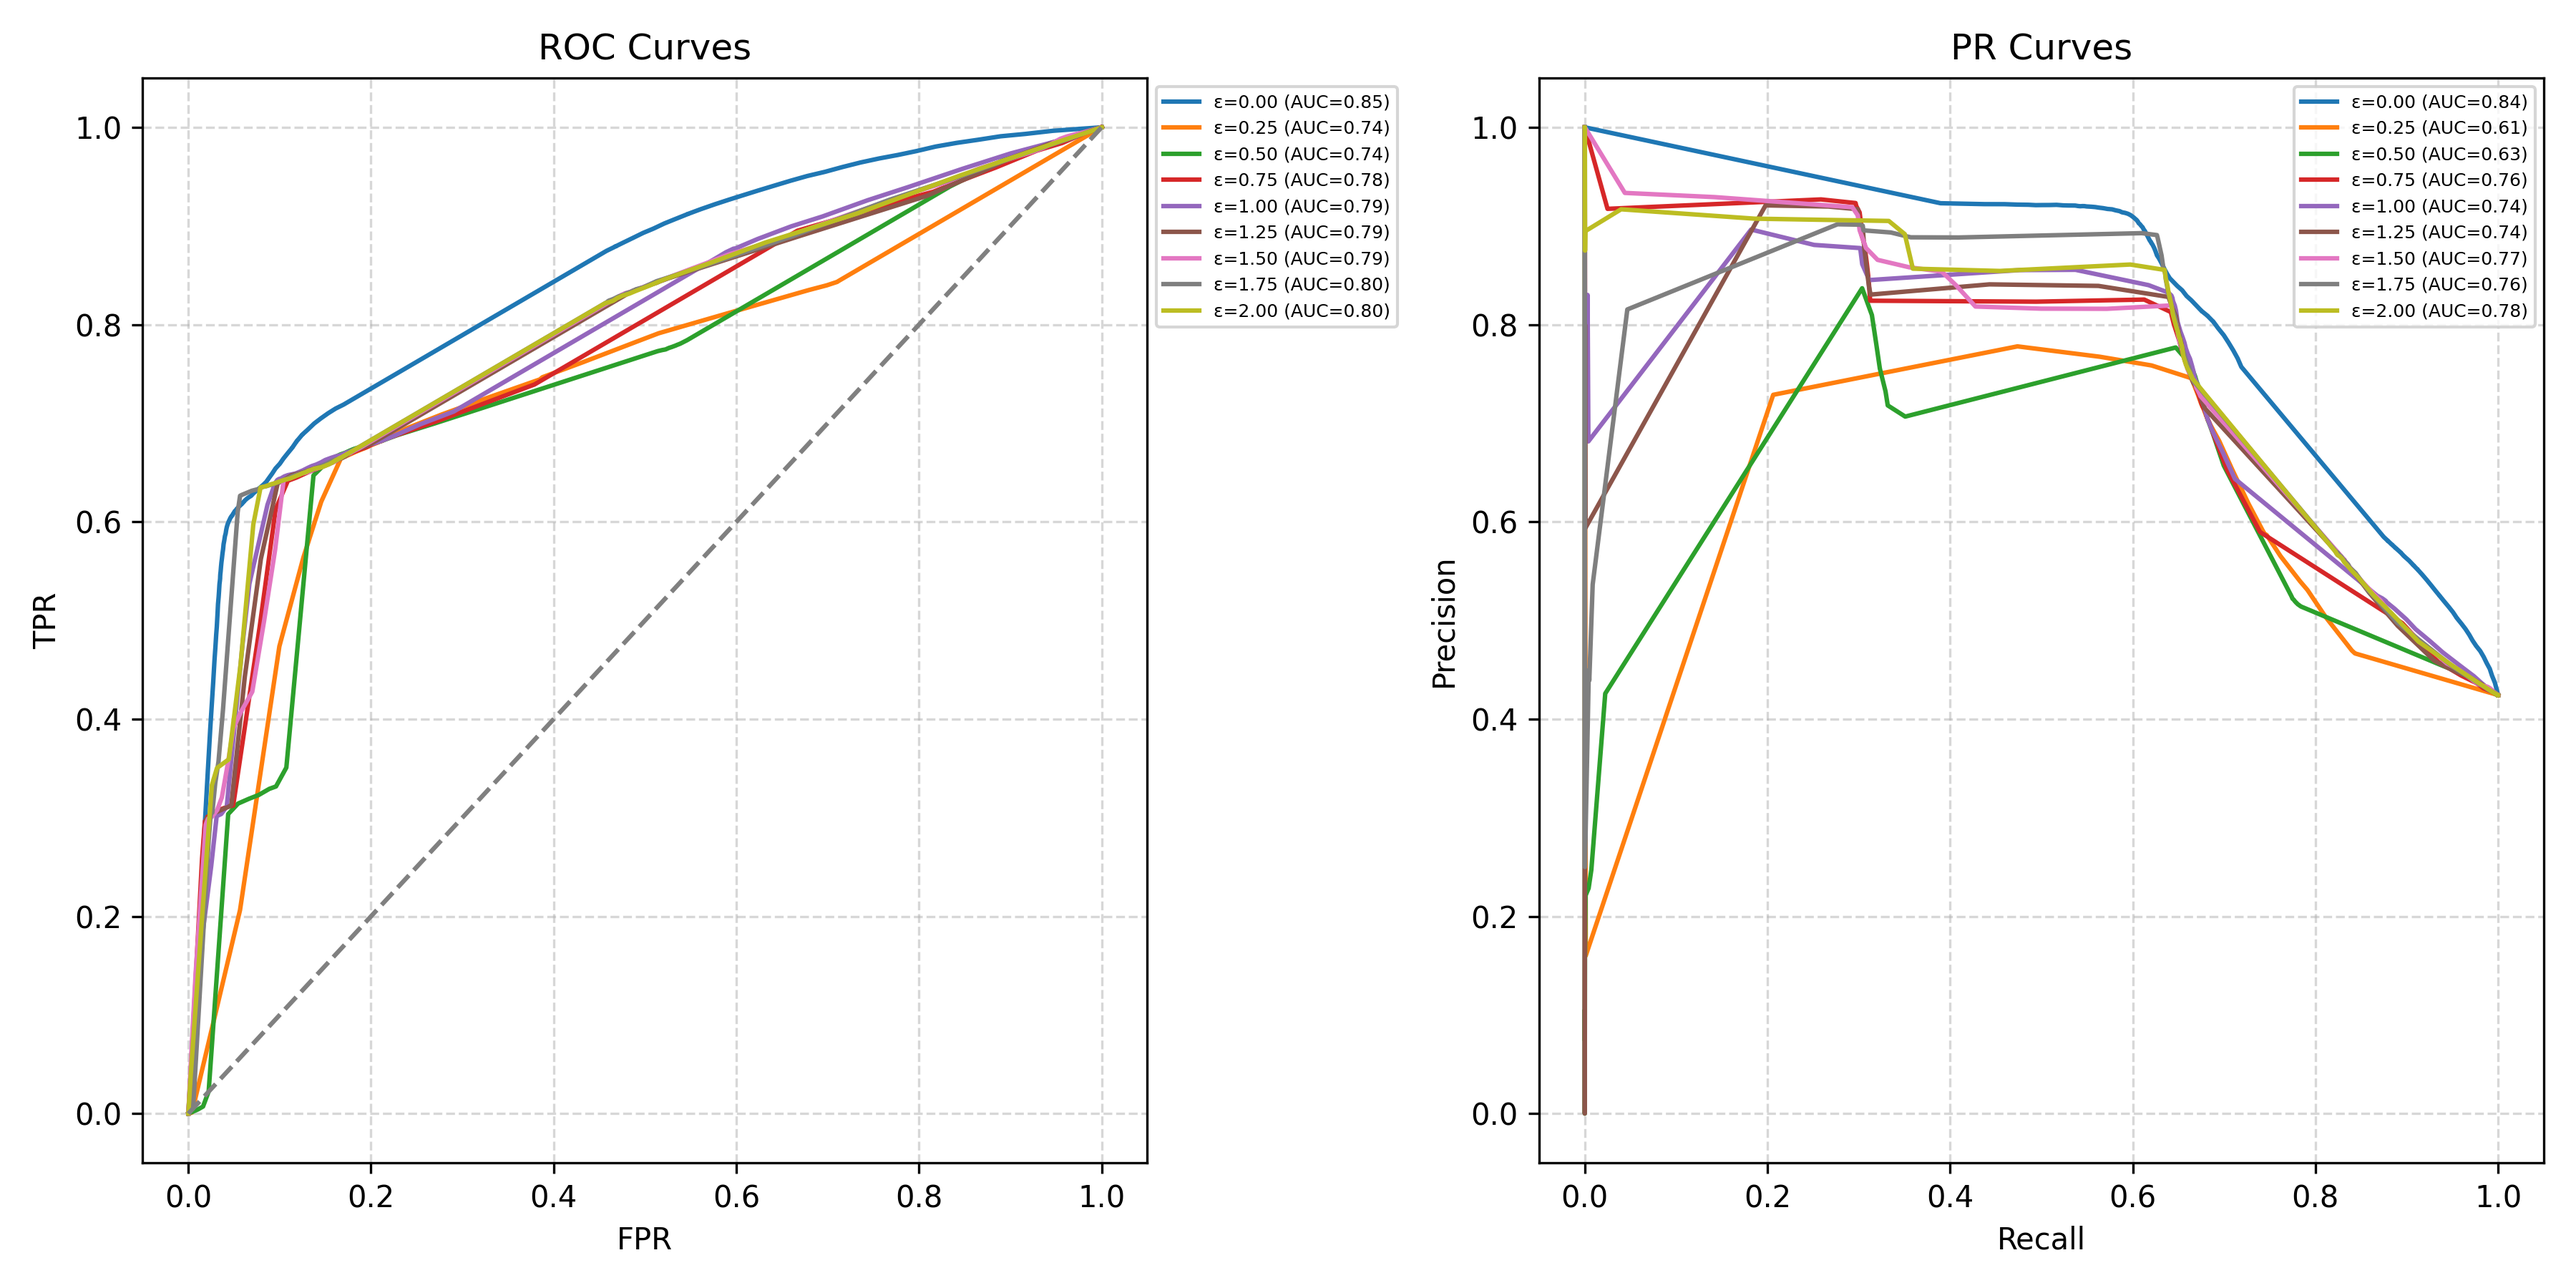
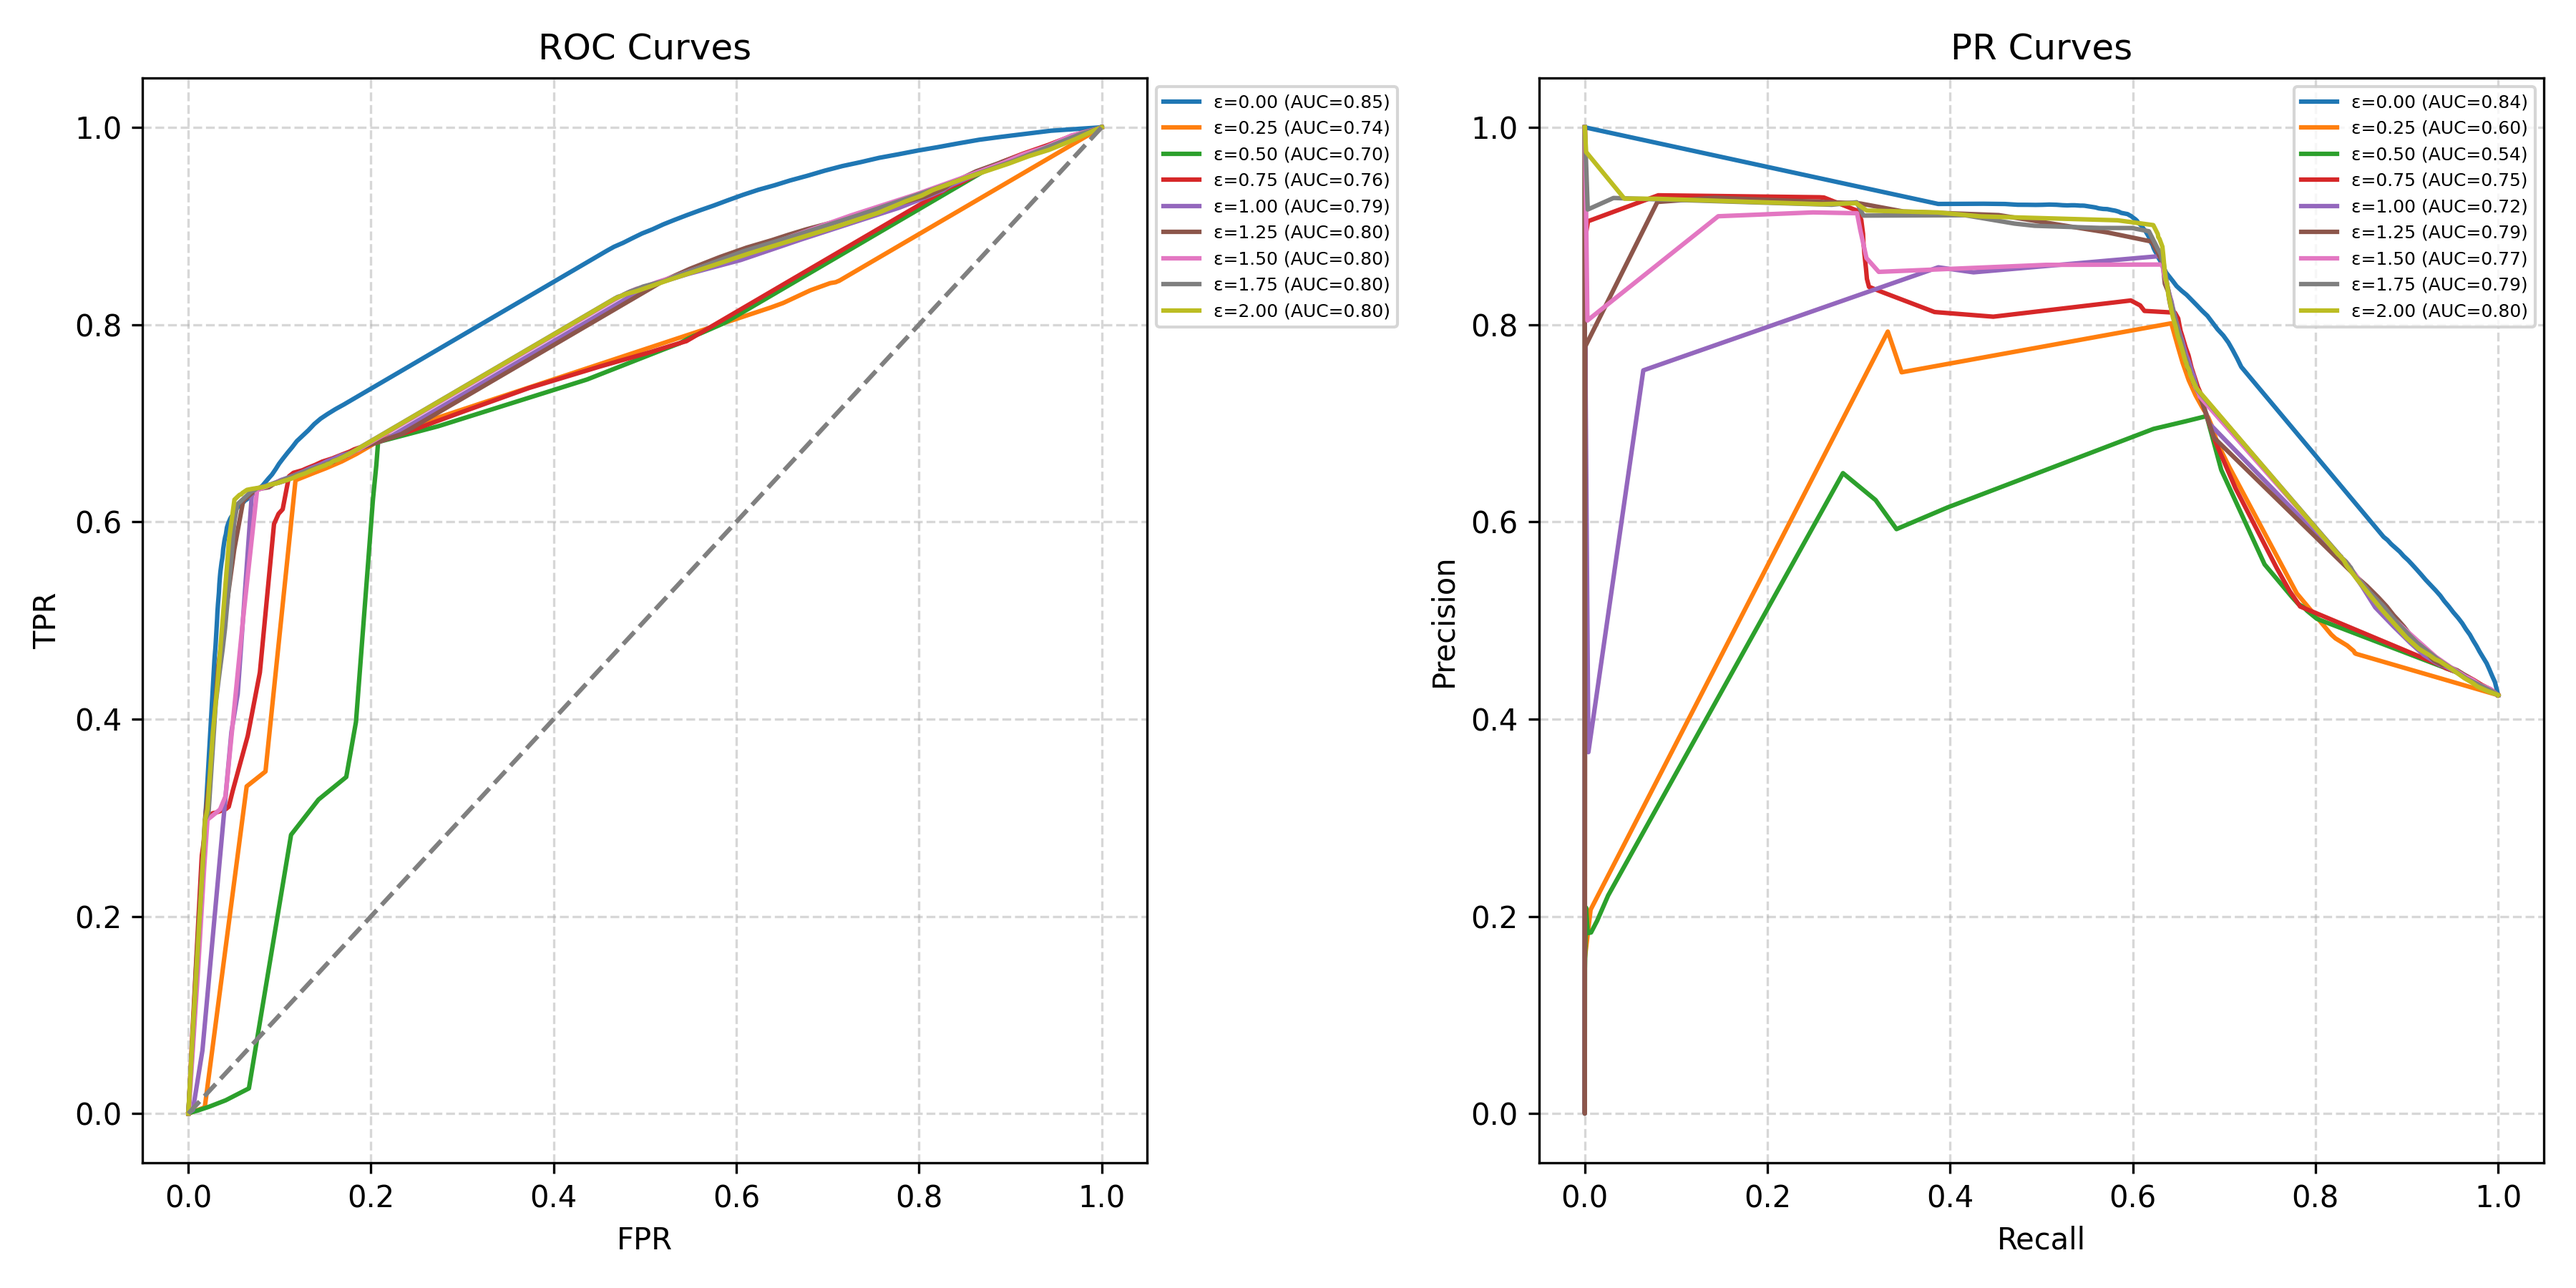
“4/30改进版_2”

diff --git a/src/optimized_pipeline.py b/src/optimized_pipeline.py
@@ -1,7 +1,9 @@
 # optimized_pipeline.py
+
 import argparse
 import logging
 from pathlib import Path
+
 import yaml
 import pandas as pd
 import numpy as np
@@ -12,11 +14,57 @@ from sklearn.metrics import (
 )
 from sklearn.model_selection import train_test_split
 from sklearn.utils import resample
+
 from cls import train_and_evaluate_model
-from D_privacy import apply_differential_privacy
+
+
+# -----------------------------------------------------------------------------
+# Utility Functions
+# -----------------------------------------------------------------------------
+
+def apply_feature_dp(X_norm: np.ndarray, epsilon: float) -> np.ndarray:
+    """
+    在归一化特征上注入 Laplace 噪声（敏感度=1）。
+    """
+    if epsilon <= 0:
+        return X_norm
+    scale = 1.0 / epsilon
+    noise = np.random.laplace(loc=0.0, scale=scale, size=X_norm.shape)
+    return X_norm + noise
+
+
+def oversample_training(X: pd.DataFrame, y: pd.Series, labels: list):
+    """
+    对少数类进行上采样，使两类样本数持平。
+    """
+    df_train = pd.concat([X.reset_index(drop=True), y.reset_index(drop=True)], axis=1)
+    df_train.columns = list(X.columns) + ['Label']
+    majority = df_train[df_train['Label'] == labels[0]]
+    minority = df_train[df_train['Label'] != labels[0]]
+    if minority.empty:
+        return X, y
+    minority_up = resample(minority,
+                           replace=True,
+                           n_samples=len(majority),
+                           random_state=42)
+    df_bal = pd.concat([majority, minority_up])
+    X_bal = df_bal.drop('Label', axis=1)
+    y_bal = df_bal['Label']
+    return X_bal, y_bal
+
+
+def clip_and_normalize(X: pd.DataFrame, fmin: pd.Series, fmax: pd.Series) -> np.ndarray:
+    """
+    将特征裁剪到 [fmin, fmax] 并线性归一化到 [0,1]。
+    """
+    Xc = X.clip(lower=fmin, upper=fmax, axis=1)
+    return ((Xc - fmin) / (fmax - fmin)).values
 
 
 def setup_logging(log_path: Path):
+    """
+    配置日志输出到文件和终端。
+    """
     log_path.parent.mkdir(parents=True, exist_ok=True)
     logging.basicConfig(
         level=logging.INFO,
@@ -26,11 +74,17 @@ def setup_logging(log_path: Path):
 
 
 def load_config(config_file: Path) -> dict:
+    """
+    从 YAML 文件加载配置。
+    """
     with open(config_file) as f:
         return yaml.safe_load(f)
 
 
 def prepare_output_dirs(base_dir: Path):
+    """
+    创建 plots/ 和 logs/ 子目录。
+    """
     plots_dir = base_dir / 'plots'
     logs_dir = base_dir / 'logs'
     plots_dir.mkdir(parents=True, exist_ok=True)
@@ -39,6 +93,9 @@ def prepare_output_dirs(base_dir: Path):
 
 
 def load_and_split(data_path: Path, test_size: float, random_state: int, stratify: bool):
+    """
+    读取 CSV，拆分训练/测试集。
+    """
     df = pd.read_csv(data_path)
     df.columns = df.columns.str.strip()
     if 'Label' not in df.columns:
@@ -51,6 +108,9 @@ def load_and_split(data_path: Path, test_size: float, random_state: int, stratif
 
 
 def generate_epsilons(exp_cfg: dict):
+    """
+    根据 config 中的 epsilon_range 生成 eps 值列表。
+    """
     er = exp_cfg.get('epsilon_range', {})
     min_eps = er.get('min', 0.0)
     max_eps = er.get('max', 2.0)
@@ -60,28 +120,20 @@ def generate_epsilons(exp_cfg: dict):
     return epsilons, plot_scale
 
 
-def oversample_training(X: pd.DataFrame, y: pd.Series, labels: list):
-    df_train = pd.concat([X.reset_index(drop=True), y.reset_index(drop=True)], axis=1)
-    df_train.columns = list(X.columns) + ['Label']
-    majority = df_train[df_train['Label'] == labels[0]]
-    minority = df_train[df_train['Label'] != labels[0]]
-    if len(minority) == 0:
-        return X, y
-    minority_upsampled = resample(minority, replace=True, n_samples=len(majority), random_state=42)
-    df_bal = pd.concat([majority, minority_upsampled])
-    X_bal = df_bal.drop('Label', axis=1)
-    y_bal = df_bal['Label']
-    return X_bal, y_bal
-
-
 def evaluate_metrics(y_true, y_pred, labels):
+    """
+    计算 Accuracy, Precision, Recall (macro), F1 (macro) 及各类 recall/F1。
+    """
     acc = accuracy_score(y_true, y_pred)
     prec = precision_score(y_true, y_pred, average='macro', zero_division=0)
     rec_macro = recall_score(y_true, y_pred, average='macro', zero_division=0)
     f1_macro = f1_score(y_true, y_pred, average='macro', zero_division=0)
     cm = confusion_matrix(y_true, y_pred, labels=labels)
-    per_class_recalls = {f'recall_{labels[i]}': cm[i, i] / cm[i].sum() if cm[i].sum() > 0 else 0
-                         for i in range(len(labels))}
+
+    per_class_recalls = {
+        f'recall_{labels[i]}': cm[i, i] / cm[i].sum() if cm[i].sum() > 0 else 0
+        for i in range(len(labels))
+    }
     per_class_f1 = {}
     for i, lbl in enumerate(labels):
         tp = cm[i, i]
@@ -89,17 +141,22 @@ def evaluate_metrics(y_true, y_pred, labels):
         fn = cm[i, :].sum() - tp
         denom = 2 * tp + fp + fn
         per_class_f1[f'f1_{lbl}'] = (2 * tp / denom) if denom > 0 else 0
+
     return acc, prec, rec_macro, f1_macro, per_class_recalls, per_class_f1
 
 
 def plot_confusion_matrix_grid(cms, labels, title, save_path: Path):
+    """
+    将所有 ε 下的混淆矩阵绘制为网格图。
+    """
     n = len(cms)
     cols = int(np.ceil(np.sqrt(n)))
     rows = int(np.ceil(n / cols))
     fig, axes = plt.subplots(rows, cols, figsize=(cols*3, rows*3))
     axes = axes.flatten()
+
     for ax, (eps, cm) in zip(axes, cms):
-        im = ax.imshow(cm, interpolation='nearest', cmap=plt.cm.Blues)
+        im = ax.imshow(cm, cmap=plt.cm.Blues)
         ax.set_title(f'ε={eps:.2f}', fontsize=8)
         ax.set_xticks(range(len(labels)))
         ax.set_xticklabels(labels, rotation=45, fontsize=6)
@@ -108,8 +165,10 @@ def plot_confusion_matrix_grid(cms, labels, title, save_path: Path):
         for i in range(len(labels)):
             for j in range(len(labels)):
                 ax.text(j, i, cm[i, j], ha='center', va='center', fontsize=6)
+
     for ax in axes[n:]:
         ax.axis('off')
+
     fig.subplots_adjust(right=0.85, wspace=0.4, hspace=0.6)
     cbar_ax = fig.add_axes([0.88, 0.15, 0.03, 0.7])
     fig.colorbar(im, cax=cbar_ax)
@@ -119,9 +178,11 @@ def plot_confusion_matrix_grid(cms, labels, title, save_path: Path):
 
 
 def plot_combined_curves(roc_data, pr_data, save_path: Path, scale: str):
-    # roc_data: list of (eps, fpr, tpr)
-    # pr_data: list of (eps, recall, precision)
+    """
+    在同一张图中并排展示所有 ε 的 ROC & PR 曲线。
+    """
     fig, (ax1, ax2) = plt.subplots(1, 2, figsize=(12, 6))
+
     # ROC
     for eps, fpr, tpr, roc_auc_val in roc_data:
         ax1.plot(fpr, tpr, label=f'ε={eps:.2f} (AUC={roc_auc_val:.2f})')
@@ -133,9 +194,10 @@ def plot_combined_curves(roc_data, pr_data, save_path: Path, scale: str):
         ax1.set_xscale('log')
     ax1.legend(fontsize=6, bbox_to_anchor=(1, 1))
     ax1.grid(linestyle='--', alpha=0.5)
+
     # PR
-    for eps, recall_vals, precision_vals, pr_auc_val in pr_data:
-        ax2.plot(recall_vals, precision_vals, label=f'ε={eps:.2f} (AUC={pr_auc_val:.2f})')
+    for eps, rec_vals, prec_vals, pr_auc_val in pr_data:
+        ax2.plot(rec_vals, prec_vals, label=f'ε={eps:.2f} (AUC={pr_auc_val:.2f})')
     ax2.set_title('PR Curves')
     ax2.set_xlabel('Recall')
     ax2.set_ylabel('Precision')
@@ -143,15 +205,23 @@ def plot_combined_curves(roc_data, pr_data, save_path: Path, scale: str):
         ax2.set_xscale('log')
     ax2.legend(fontsize=6, bbox_to_anchor=(1, 1))
     ax2.grid(linestyle='--', alpha=0.5)
+
     plt.tight_layout()
     plt.savefig(save_path, dpi=300)
     plt.close()
 
 
 def plot_results_table(results_df: pd.DataFrame, save_path: Path):
+    """
+    将结果 DataFrame 渲染为表格图片。
+    """
     fig, ax = plt.subplots(figsize=(results_df.shape[1]*1.2, results_df.shape[0]*0.6))
     ax.axis('off')
-    table = ax.table(cellText=np.round(results_df.values, 4), colLabels=results_df.columns, loc='center')
+    table = ax.table(
+        cellText=np.round(results_df.values, 4),
+        colLabels=results_df.columns,
+        loc='center'
+    )
     table.auto_set_font_size(False)
     table.set_fontsize(12)
     table.scale(1, 1.5)
@@ -160,80 +230,102 @@ def plot_results_table(results_df: pd.DataFrame, save_path: Path):
     plt.close()
 
 
+# -----------------------------------------------------------------------------
+# Main Pipeline
+# -----------------------------------------------------------------------------
+
 def run_experiments(config: dict):
+    # 1) 配置 & 日志
     data_cfg = config['data']
     exp_cfg = config['experiment']
     output_cfg = config['output']
-
-    base_dir = Path(output_cfg['base_dir'])
-    plots_dir, logs_dir = prepare_output_dirs(base_dir)
+    plots_dir, logs_dir = prepare_output_dirs(Path(output_cfg['base_dir']))
     setup_logging(logs_dir / 'pipeline.log')
 
+    # 2) 加载 & 拆分数据
     X_train, X_test, y_train, y_test = load_and_split(
-        Path(data_cfg['path']), data_cfg.get('test_size', 0.3),
-        data_cfg.get('random_state', 42), data_cfg.get('stratify', True)
+        Path(data_cfg['path']),
+        data_cfg.get('test_size', 0.3),
+        data_cfg.get('random_state', 42),
+        data_cfg.get('stratify', True)
     )
 
+    # 3) 特征裁剪 & 归一化
+    fmin, fmax = X_train.min(), X_train.max()
+    X_train_norm = clip_and_normalize(X_train, fmin, fmax)
+    X_test_norm = clip_and_normalize(X_test, fmin, fmax)
+
+    # 4) ε 列表 & 容器
     epsilons, plot_scale = generate_epsilons(exp_cfg)
-    metrics_list = []
-    cms = []
-    roc_data = []
-    pr_data = []
+    metrics_list, cms, roc_data, pr_data = [], [], [], []
     labels = exp_cfg.get('labels', ['BENIGN', 'PortScan'])
     oversample = exp_cfg.get('oversample', False)
 
+    # 5) 遍历 ε
     for eps in epsilons:
         logging.info(f'Running experiment ε={eps:.2f}')
-        X_tr, y_tr = X_train, y_train
-        if eps > 0:
-            X_tr = apply_differential_privacy(X_tr, eps)
-        if oversample:
-            X_tr, y_tr = oversample_training(X_tr, y_tr, labels)
 
-        y_pred, y_prob = train_and_evaluate_model(X_tr, y_tr, X_test, return_proba=True)
+        X_tr, y_tr = X_train_norm.copy(), y_train
+        X_tr = apply_feature_dp(X_tr, eps)
+
+        if oversample:
+            Xdf = pd.DataFrame((X_tr * (fmax - fmin) + fmin), columns=X_train.columns)
+            Xdf, y_tr = oversample_training(Xdf, y_tr, labels)
+            X_tr = clip_and_normalize(Xdf, fmin, fmax)
+
+        y_pred, y_prob = train_and_evaluate_model(
+            X_tr, y_tr, X_test_norm, return_proba=True
+        )
+
         cms.append((eps, confusion_matrix(y_test, y_pred, labels=labels)))
 
-        acc, prec, rec_macro, f1_macro, rec_pc, f1_pc = evaluate_metrics(y_test, y_pred, labels)
+        acc, prec, rec_macro, f1_macro, rec_pc, f1_pc = evaluate_metrics(
+            y_test, y_pred, labels
+        )
         fpr, tpr, _ = roc_curve(y_test, y_prob[:, 1], pos_label='PortScan')
         roc_auc_val = auc(fpr, tpr)
-        precision_vals, recall_vals, _ = precision_recall_curve(y_test, y_prob[:, 1], pos_label='PortScan')
-        pr_auc_val = auc(recall_vals, precision_vals)
+        p_vals, r_vals, _ = precision_recall_curve(
+            y_test, y_prob[:, 1], pos_label='PortScan'
+        )
+        pr_auc_val = auc(r_vals, p_vals)
 
-        # store for combined curves
         roc_data.append((eps, fpr, tpr, roc_auc_val))
-        pr_data.append((eps, recall_vals, precision_vals, pr_auc_val))
+        pr_data.append((eps, r_vals, p_vals, pr_auc_val))
 
-        record = {
+        metrics_list.append({
             'epsilon': eps,
             'accuracy': acc,
             'precision': prec,
             'recall_macro': rec_macro,
             'f1_macro': f1_macro,
             'roc_auc': roc_auc_val,
-            'pr_auc': pr_auc_val
-        }
-        record.update(rec_pc)
-        record.update(f1_pc)
-        metrics_list.append(record)
+            'pr_auc': pr_auc_val,
+            **rec_pc, **f1_pc
+        })
 
-    # Plot confusion matrix grid
-    grid_path = plots_dir / 'confusion_matrix_grid.png'
-    plot_confusion_matrix_grid(cms, labels, 'Confusion Matrices for All ε', grid_path)
+    # 6) 保存 & 绘图
+    plot_confusion_matrix_grid(
+        cms, labels, 'Confusion Matrices for All ε',
+        plots_dir / 'confusion_matrix_grid.png'
+    )
 
-    # Save metrics table
     results_df = pd.DataFrame(metrics_list)
-    csv_path = base_dir / output_cfg.get('results_file', 'results_summary.csv')
-    results_df.to_csv(csv_path, index=False)
-    table_path = plots_dir / 'results_table.png'
-    plot_results_table(results_df, table_path)
+    results_df.to_csv(
+        Path(output_cfg['base_dir']) / output_cfg.get('results_file', 'results_summary.csv'),
+        index=False
+    )
+    plot_results_table(results_df, plots_dir / 'results_table.png')
+    plot_combined_curves(
+        roc_data, pr_data,
+        plots_dir / 'combined_roc_pr.png',
+        plot_scale
+    )
 
-    # Combined curves
-    combined_curves_path = plots_dir / 'combined_roc_pr.png'
-    plot_combined_curves(roc_data, pr_data, combined_curves_path, plot_scale)
 
 if __name__ == '__main__':
-    parser = argparse.ArgumentParser(description='DP-enabled anomaly detection pipeline')
-    parser.add_argument('--config', type=str, default='config.yaml', help='Path to config file')
+    parser = argparse.ArgumentParser(description='DP anomaly detection pipeline')
+    parser.add_argument('--config', type=str, default='config.yaml',
+                        help='Path to YAML config file')
     args = parser.parse_args()
-    config = load_config(Path(args.config))
-    run_experiments(config)
+    cfg = load_config(Path(args.config))
+    run_experiments(cfg)

diff --git a/src/cls.py b/src/cls.py
@@ -1,11 +1,12 @@
 # cls.py
+
 from sklearn.ensemble import RandomForestClassifier
 
 def train_and_evaluate_model(X_train, y_train, X_test, return_proba=False):
     """
-    训练模型并返回预测结果。
-    参数:
-      - return_proba: 如果为 True，则返回 (y_pred, y_prob)，否则仅返回 y_pred。
+    训练一个随机森林模型并返回预测结果。
+    如果 return_proba=True，则返回 (y_pred, y_prob)，
+    否则只返回 y_pred。
     """
     model = RandomForestClassifier(n_estimators=100, random_state=42)
     model.fit(X_train, y_train)
@@ -14,4 +15,5 @@ def train_and_evaluate_model(X_train, y_train, X_test, return_proba=False):
     if return_proba:
         y_prob = model.predict_proba(X_test)
         return y_pred, y_prob
+
     return y_pred
